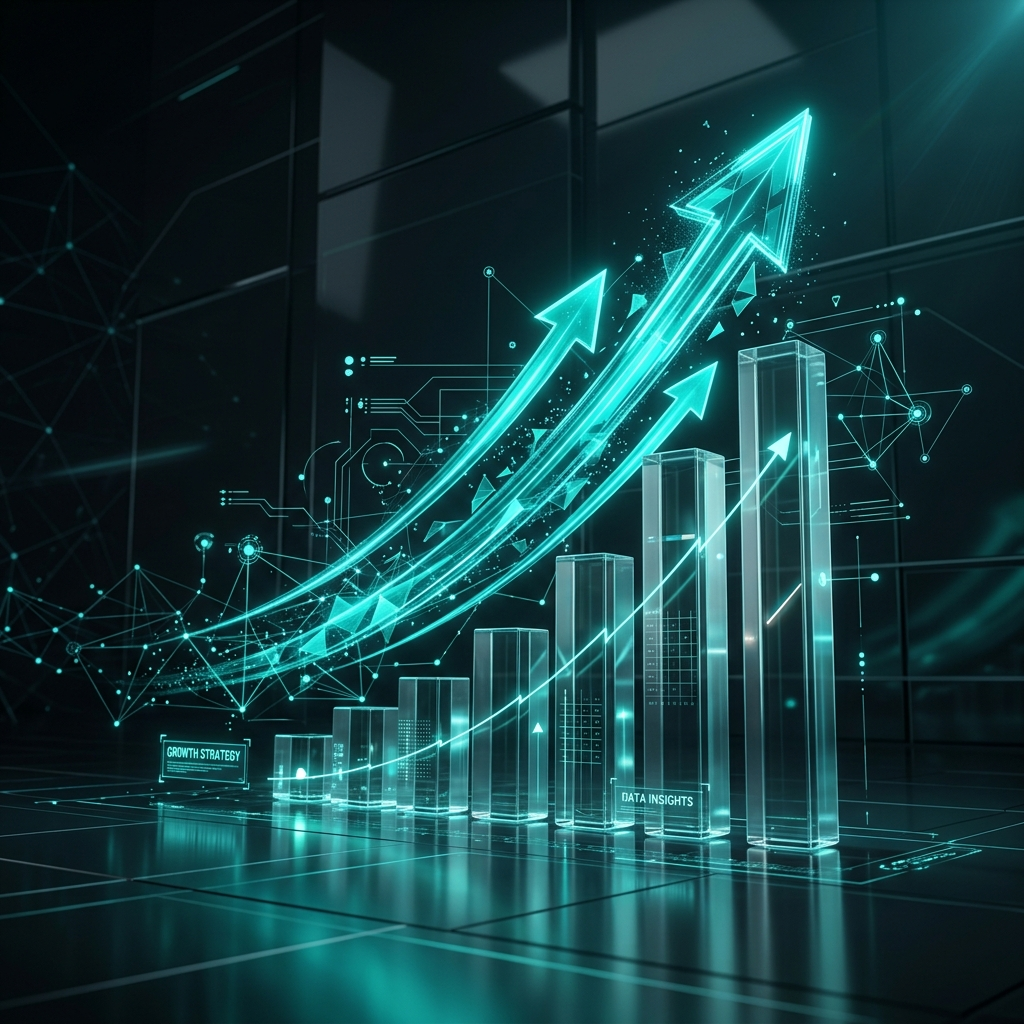
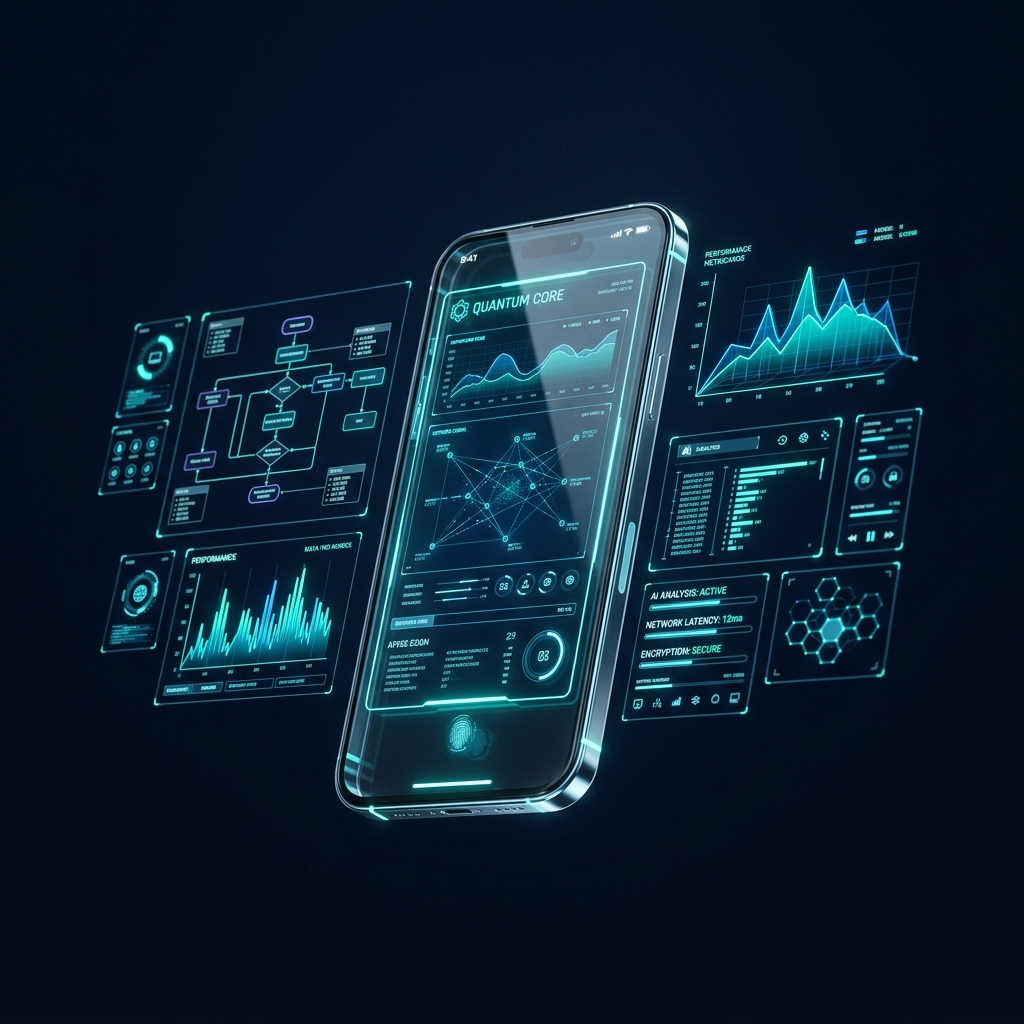
fix cta image

diff --git a/app/shared/sections/CallToAction.tsx b/app/shared/sections/CallToAction.tsx
@@ -108,16 +108,12 @@ export function CallToAction({
 
             {/* Right Column: 3D CTA Illustration */}
             <Reveal from="right" delay={0.15} className="lg:col-span-5 flex justify-center lg:justify-end">
-              <div className="relative overflow-hidden rounded-[2rem] border-2 border-white/10 bg-slate-950/20 p-2 shadow-[0_20px_50px_rgba(0,0,0,0.5)] backdrop-blur-md max-w-full sm:max-w-md">
-                <div className="relative overflow-hidden rounded-[1.6rem]">
-                  <img
-                    src="/assets/cta-strategy.png"
-                    alt="Strategy Consultation"
-                    className="w-full h-auto object-cover aspect-[4/3] rounded-[1.5rem]"
-                  />
-                  {/* Subtle gradient overlay */}
-                  <div className="absolute inset-0 bg-gradient-to-t from-slate-950/30 via-transparent to-transparent pointer-events-none" />
-                </div>
+              <div className="relative max-w-full sm:max-w-md [mask-image:radial-gradient(circle_at_center,white_65%,transparent_100%)]">
+                <img
+                  src="/assets/cta-strategy.png"
+                  alt="Strategy Consultation"
+                  className="w-full h-auto object-contain drop-shadow-[0_0_30px_rgba(0,210,196,0.15)] select-none pointer-events-none"
+                />
               </div>
             </Reveal>
           </div>
